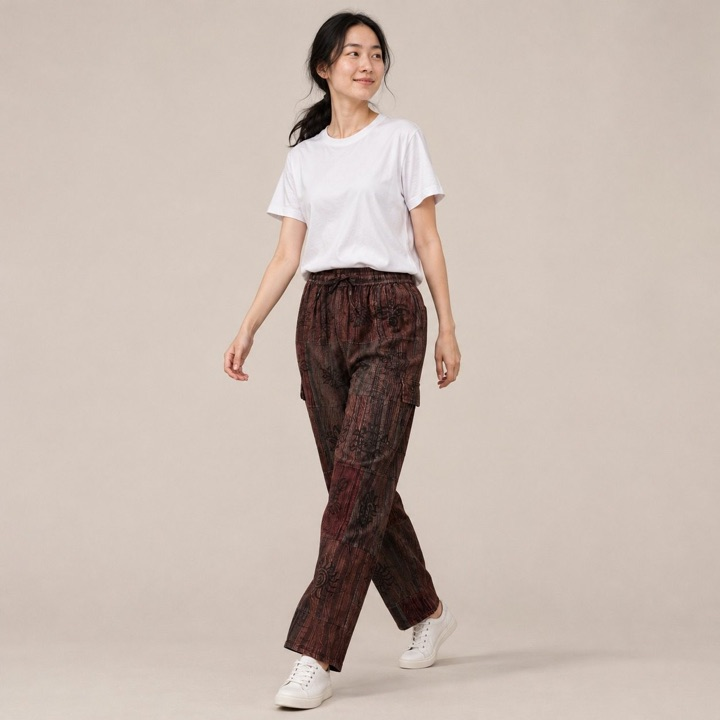
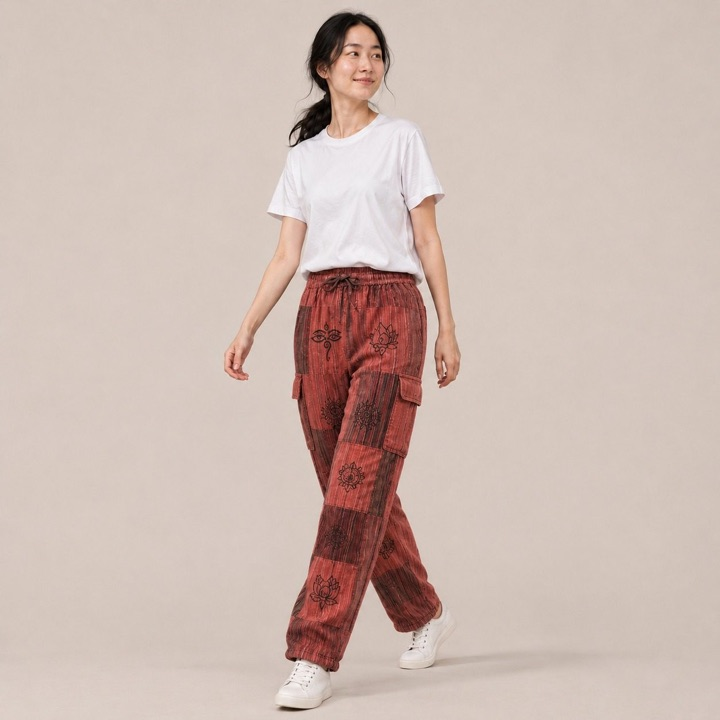
Patch pyjama: red instead of charcoal (owner, as on Coupang); eco: 친환경 wording back (owner)

Changed region(s): [[0.3972, 0.3667, 0.6111, 0.9472]]

diff --git a/p-patch-pyjama.html b/p-patch-pyjama.html
@@ -28,7 +28,7 @@
 <link rel="stylesheet" href="https://cdn.jsdelivr.net/gh/sun-typeface/SUIT/fonts/variable/woff2/SUIT-Variable.css">
 <link rel="stylesheet" href="style.css">
 <script>document.documentElement.classList.add('js')</script>
-<script type="application/ld+json">{"@context":"https://schema.org","@type":"Product","name":"패치 파자마 Patch Pyjama","brand":{"@type":"Brand","name":"FEEL INDIA"},"material":"면 100%","countryOfOrigin":"인도","color":"그린, 차콜, 블루","image":["https://feelindia-official.github.io/fi-patch-pyjama-studio-1.jpg","https://feelindia-official.github.io/fi-patch-pyjama-product-1-full.jpg","https://feelindia-official.github.io/fi-patch-pyjama-studio-2.jpg","https://feelindia-official.github.io/fi-patch-pyjama-studio-3.jpg"],"description":"프린트 패치를 이은 일자 파자마예요. 옆에 카고 주머니를 달았어요."}</script>
+<script type="application/ld+json">{"@context":"https://schema.org","@type":"Product","name":"패치 파자마 Patch Pyjama","brand":{"@type":"Brand","name":"FEEL INDIA"},"material":"면 100%","countryOfOrigin":"인도","color":"그린, 레드, 블루","image":["https://feelindia-official.github.io/fi-patch-pyjama-studio-1.jpg","https://feelindia-official.github.io/fi-patch-pyjama-product-1-full.jpg","https://feelindia-official.github.io/fi-patch-pyjama-studio-2.jpg","https://feelindia-official.github.io/fi-patch-pyjama-studio-3.jpg"],"description":"프린트 패치를 이은 일자 파자마예요. 옆에 카고 주머니를 달았어요."}</script>
 </head>
 <body class="is-pdp">
 <a class="skip" href="#main">본문으로 이동</a>
@@ -66,10 +66,10 @@
       <div class="pg-track" data-pg-track tabindex="0" role="region" aria-label="패치 파자마">
         <figure class="pg-slide big" data-color="green" data-i="0"><img src="fi-patch-pyjama-studio-1-sm.jpg" srcset="fi-patch-pyjama-studio-1-sm.jpg 720w, fi-patch-pyjama-studio-1.jpg 1254w" sizes="(max-width: 900px) 100vw, 56vw" alt="패치 파자마 그린 · 스튜디오 정면" width="1254" height="1254" fetchpriority="high"></figure>
         <figure class="pg-slide" data-color="green" data-i="1"><img src="fi-patch-pyjama-product-1-full-sm.jpg" srcset="fi-patch-pyjama-product-1-full-sm.jpg 720w, fi-patch-pyjama-product-1-full.jpg 1254w" sizes="(max-width: 900px) 100vw, 28vw" alt="패치 파자마 · 그린 · 전체 모습" width="1254" height="1254" fetchpriority="high"></figure>
-        <figure class="pg-slide" data-color="charcoal" data-i="2"><img src="fi-patch-pyjama-studio-2-sm.jpg" srcset="fi-patch-pyjama-studio-2-sm.jpg 720w, fi-patch-pyjama-studio-2.jpg 1254w" sizes="(max-width: 900px) 100vw, 28vw" alt="패치 파자마 차콜 · 스튜디오 걷는 모습" width="1254" height="1254" loading="lazy" decoding="async"></figure>
+        <figure class="pg-slide" data-color="red" data-i="2"><img src="fi-patch-pyjama-studio-2-sm.jpg" srcset="fi-patch-pyjama-studio-2-sm.jpg 720w, fi-patch-pyjama-studio-2.jpg 1254w" sizes="(max-width: 900px) 100vw, 28vw" alt="패치 파자마 레드 · 스튜디오 걷는 모습" width="1254" height="1254" loading="lazy" decoding="async"></figure>
         <figure class="pg-slide" data-color="blue" data-i="3"><img src="fi-patch-pyjama-studio-3-sm.jpg" srcset="fi-patch-pyjama-studio-3-sm.jpg 720w, fi-patch-pyjama-studio-3.jpg 1254w" sizes="(max-width: 900px) 100vw, 28vw" alt="패치 파자마 블루 · 스튜디오 옆모습" width="1254" height="1254" loading="lazy" decoding="async"></figure>
         <figure class="pg-slide" data-color="green" data-i="4"><img src="fi-patch-pyjama-life-1-sm.jpg" srcset="fi-patch-pyjama-life-1-sm.jpg 720w, fi-patch-pyjama-life-1.jpg 1254w" sizes="(max-width: 900px) 100vw, 28vw" alt="영화 · 패치 파자마 그린" width="1254" height="1254" loading="lazy" decoding="async"></figure>
-        <figure class="pg-slide" data-color="charcoal" data-i="5"><img src="fi-patch-pyjama-life-2-sm.jpg" srcset="fi-patch-pyjama-life-2-sm.jpg 720w, fi-patch-pyjama-life-2.jpg 1254w" sizes="(max-width: 900px) 100vw, 28vw" alt="빵집 · 패치 파자마 차콜" width="1254" height="1254" loading="lazy" decoding="async"></figure>
+        <figure class="pg-slide" data-color="red" data-i="5"><img src="fi-patch-pyjama-life-2-sm.jpg" srcset="fi-patch-pyjama-life-2-sm.jpg 720w, fi-patch-pyjama-life-2.jpg 1254w" sizes="(max-width: 900px) 100vw, 28vw" alt="빵집 · 패치 파자마 레드" width="1254" height="1254" loading="lazy" decoding="async"></figure>
         <figure class="pg-slide" data-color="blue" data-i="6"><img src="fi-patch-pyjama-life-3-sm.jpg" srcset="fi-patch-pyjama-life-3-sm.jpg 720w, fi-patch-pyjama-life-3.jpg 1254w" sizes="(max-width: 900px) 100vw, 28vw" alt="산책 · 패치 파자마 블루" width="1254" height="1254" loading="lazy" decoding="async"></figure>
         <figure class="pg-slide" data-color="green" data-i="7"><img src="fi-patch-pyjama-product-2-fabric-sm.jpg" srcset="fi-patch-pyjama-product-2-fabric-sm.jpg 720w, fi-patch-pyjama-product-2-fabric.jpg 1254w" sizes="(max-width: 900px) 100vw, 28vw" alt="패치 파자마 · 원단 가까이" width="1254" height="1254" loading="lazy" decoding="async"></figure>
         <figure class="pg-slide" data-color="green" data-i="8"><img src="fi-patch-pyjama-product-3-waist-sm.jpg" srcset="fi-patch-pyjama-product-3-waist-sm.jpg 720w, fi-patch-pyjama-product-3-waist.jpg 1254w" sizes="(max-width: 900px) 100vw, 28vw" alt="패치 파자마 · 허리 밴딩" width="1254" height="1254" loading="lazy" decoding="async"></figure>
@@ -88,7 +88,7 @@
     <p class="opt-label">컬러 <span data-color-name>그린</span></p>
     <div class="colors" role="group" aria-label="컬러 선택">
       <button type="button" data-color="green" data-kr="그린" aria-pressed="true"><span class="sw sw-green" title="그린"></span>그린</button>
-      <button type="button" data-color="charcoal" data-kr="차콜" aria-pressed="false"><span class="sw sw-charcoal" title="차콜"></span>차콜</button>
+      <button type="button" data-color="red" data-kr="레드" aria-pressed="false"><span class="sw sw-red" title="레드"></span>레드</button>
       <button type="button" data-color="blue" data-kr="블루" aria-pressed="false"><span class="sw sw-blue" title="블루"></span>블루</button>
     </div>
     <p class="opt-label">사이즈</p>
@@ -104,7 +104,7 @@
       <h2 id="dp-title" class="dp-title">프린트 패치를 이은 파자마</h2>
       <p class="dp-lead">패치 파자마는 밑단까지 곧게 떨어지고 옆에 카고 주머니가 있어요.</p>
     </div>
-    <figure class="dp-hook-ph" data-reveal><img src="fi-patch-pyjama-studio-2-sm.jpg" srcset="fi-patch-pyjama-studio-2-sm.jpg 720w, fi-patch-pyjama-studio-2.jpg 1254w" sizes="(max-width: 760px) 100vw, 50vw" alt="패치 파자마 차콜 · 스튜디오 걷는 모습" width="1254" height="1254" loading="lazy" decoding="async"></figure>
+    <figure class="dp-hook-ph" data-reveal><img src="fi-patch-pyjama-studio-2-sm.jpg" srcset="fi-patch-pyjama-studio-2-sm.jpg 720w, fi-patch-pyjama-studio-2.jpg 1254w" sizes="(max-width: 760px) 100vw, 50vw" alt="패치 파자마 레드 · 스튜디오 걷는 모습" width="1254" height="1254" loading="lazy" decoding="async"></figure>
   </div>
   <div class="dp-why fld-sage">
     <ul class="wrap dp-why-list">
@@ -123,17 +123,17 @@
       <h2 class="dp-h">스타일링</h2>
       <div class="dp-rail">
         <figure class="dp-scene" data-reveal><img src="fi-patch-pyjama-life-1-sm.jpg" srcset="fi-patch-pyjama-life-1-sm.jpg 720w, fi-patch-pyjama-life-1.jpg 1254w" sizes="(max-width: 760px) 84vw, 33vw" alt="영화 · 패치 파자마 그린" width="1254" height="1254" loading="lazy" decoding="async"><figcaption><h3>영화</h3><p class="look">그린 + 크림 니트 + 회색 양말 + 니트 담요</p><p>소파에서 영화를 볼 땐 그린에 크림 니트를 입고 니트 담요를 어깨에 걸쳐 보세요.</p></figcaption></figure>
-        <figure class="dp-scene" data-reveal><img src="fi-patch-pyjama-life-2-sm.jpg" srcset="fi-patch-pyjama-life-2-sm.jpg 720w, fi-patch-pyjama-life-2.jpg 1254w" sizes="(max-width: 760px) 84vw, 33vw" alt="빵집 · 패치 파자마 차콜" width="1254" height="1254" loading="lazy" decoding="async"><figcaption><h3>빵집</h3><p class="look">차콜 + 흰 티셔츠 위에 아이보리 카디건 + 흰 스니커즈</p><p>빵집에 들를 땐 차콜에 흰 티셔츠를 입고 아이보리 카디건을 걸쳐 보세요.</p></figcaption></figure>
+        <figure class="dp-scene" data-reveal><img src="fi-patch-pyjama-life-2-sm.jpg" srcset="fi-patch-pyjama-life-2-sm.jpg 720w, fi-patch-pyjama-life-2.jpg 1254w" sizes="(max-width: 760px) 84vw, 33vw" alt="빵집 · 패치 파자마 레드" width="1254" height="1254" loading="lazy" decoding="async"><figcaption><h3>빵집</h3><p class="look">레드 + 흰 티셔츠 위에 아이보리 카디건 + 흰 스니커즈</p><p>빵집에 들를 땐 레드에 흰 티셔츠를 입고 아이보리 카디건을 걸쳐 보세요.</p></figcaption></figure>
         <figure class="dp-scene" data-reveal><img src="fi-patch-pyjama-life-3-sm.jpg" srcset="fi-patch-pyjama-life-3-sm.jpg 720w, fi-patch-pyjama-life-3.jpg 1254w" sizes="(max-width: 760px) 84vw, 33vw" alt="산책 · 패치 파자마 블루" width="1254" height="1254" loading="lazy" decoding="async"><figcaption><h3>산책</h3><p class="look">블루 + 흰 티셔츠 + 흰 스니커즈 + 캔버스 토트</p><p>반려견과 산책할 땐 블루에 흰 티셔츠와 흰 스니커즈를 맞추고 캔버스 토트를 들어 보세요.</p></figcaption></figure>
       </div>
     </div>
   </div>
   <div class="wrap dp-colors">
     <h2 class="dp-h">컬러</h2>
-    <p class="dp-sub">그린, 차콜, 블루가 있어요.</p>
+    <p class="dp-sub">그린, 레드, 블루가 있어요.</p>
     <div class="dp-color-grid" style="--n:3">
       <figure data-reveal><img src="fi-patch-pyjama-studio-1-sm.jpg" srcset="fi-patch-pyjama-studio-1-sm.jpg 720w, fi-patch-pyjama-studio-1.jpg 1254w" sizes="(max-width: 760px) 50vw, 20vw" alt="패치 파자마 그린 · 스튜디오 정면" width="1254" height="1254" loading="lazy" decoding="async"><figcaption><span class="sw sw-green" title="그린"></span>그린</figcaption></figure>
-      <figure data-reveal><img src="fi-patch-pyjama-studio-2-sm.jpg" srcset="fi-patch-pyjama-studio-2-sm.jpg 720w, fi-patch-pyjama-studio-2.jpg 1254w" sizes="(max-width: 760px) 50vw, 20vw" alt="패치 파자마 차콜 · 스튜디오 걷는 모습" width="1254" height="1254" loading="lazy" decoding="async"><figcaption><span class="sw sw-charcoal" title="차콜"></span>차콜</figcaption></figure>
+      <figure data-reveal><img src="fi-patch-pyjama-studio-2-sm.jpg" srcset="fi-patch-pyjama-studio-2-sm.jpg 720w, fi-patch-pyjama-studio-2.jpg 1254w" sizes="(max-width: 760px) 50vw, 20vw" alt="패치 파자마 레드 · 스튜디오 걷는 모습" width="1254" height="1254" loading="lazy" decoding="async"><figcaption><span class="sw sw-red" title="레드"></span>레드</figcaption></figure>
       <figure data-reveal><img src="fi-patch-pyjama-studio-3-sm.jpg" srcset="fi-patch-pyjama-studio-3-sm.jpg 720w, fi-patch-pyjama-studio-3.jpg 1254w" sizes="(max-width: 760px) 50vw, 20vw" alt="패치 파자마 블루 · 스튜디오 옆모습" width="1254" height="1254" loading="lazy" decoding="async"><figcaption><span class="sw sw-blue" title="블루"></span>블루</figcaption></figure>
     </div>
   </div>

diff --git a/p-eco-pyjama.html b/p-eco-pyjama.html
@@ -9,12 +9,12 @@
 <meta name="apple-mobile-web-app-status-bar-style" content="default">
 <meta name="color-scheme" content="light">
 <title>에코 파자마 · Eco Pyjama | FEEL INDIA 필인디아</title>
-<meta name="description" content="면으로 만든 남녀 공용 일자 파자마예요. 스트라이프 두 가지와 단색 세 가지가 있어요. 소재는 면 100%. 인도에서 만든 남녀 공용 프리 사이즈예요.">
+<meta name="description" content="친환경 면으로 만든 남녀 공용 일자 파자마예요. 스트라이프 두 가지와 단색 세 가지가 있어요. 소재는 친환경 면 100%. 인도에서 만든 남녀 공용 프리 사이즈예요.">
 <link rel="canonical" href="https://feelindia-official.github.io/p-eco-pyjama.html">
 <meta property="og:type" content="website">
 <meta property="og:site_name" content="필인디아 FEEL INDIA">
 <meta property="og:title" content="에코 파자마 · Eco Pyjama | FEEL INDIA 필인디아">
-<meta property="og:description" content="면으로 만든 남녀 공용 일자 파자마예요. 스트라이프 두 가지와 단색 세 가지가 있어요. 소재는 면 100%. 인도에서 만든 남녀 공용 프리 사이즈예요.">
+<meta property="og:description" content="친환경 면으로 만든 남녀 공용 일자 파자마예요. 스트라이프 두 가지와 단색 세 가지가 있어요. 소재는 친환경 면 100%. 인도에서 만든 남녀 공용 프리 사이즈예요.">
 <meta property="og:image" content="https://feelindia-official.github.io/fi-eco-pyjama-studio-1.jpg">
 <meta property="og:url" content="https://feelindia-official.github.io/p-eco-pyjama.html">
 <meta property="og:locale" content="ko_KR">
@@ -28,7 +28,7 @@
 <link rel="stylesheet" href="https://cdn.jsdelivr.net/gh/sun-typeface/SUIT/fonts/variable/woff2/SUIT-Variable.css">
 <link rel="stylesheet" href="style.css">
 <script>document.documentElement.classList.add('js')</script>
-<script type="application/ld+json">{"@context":"https://schema.org","@type":"Product","name":"에코 파자마 Eco Pyjama","brand":{"@type":"Brand","name":"FEEL INDIA"},"material":"면 100%","countryOfOrigin":"인도","color":"브라운 스트라이프, 라이트 그레이 스트라이프, 네이비, 그레이, 마룬","image":["https://feelindia-official.github.io/fi-eco-pyjama-studio-1.jpg","https://feelindia-official.github.io/fi-eco-pyjama-product-1-full.jpg","https://feelindia-official.github.io/fi-eco-pyjama-studio-2.jpg","https://feelindia-official.github.io/fi-eco-pyjama-studio-3.jpg"],"description":"면으로 만든 남녀 공용 일자 파자마예요. 스트라이프 두 가지와 단색 세 가지가 있어요."}</script>
+<script type="application/ld+json">{"@context":"https://schema.org","@type":"Product","name":"에코 파자마 Eco Pyjama","brand":{"@type":"Brand","name":"FEEL INDIA"},"material":"친환경 면 100%","countryOfOrigin":"인도","color":"브라운 스트라이프, 라이트 그레이 스트라이프, 네이비, 그레이, 마룬","image":["https://feelindia-official.github.io/fi-eco-pyjama-studio-1.jpg","https://feelindia-official.github.io/fi-eco-pyjama-product-1-full.jpg","https://feelindia-official.github.io/fi-eco-pyjama-studio-2.jpg","https://feelindia-official.github.io/fi-eco-pyjama-studio-3.jpg"],"description":"친환경 면으로 만든 남녀 공용 일자 파자마예요. 스트라이프 두 가지와 단색 세 가지가 있어요."}</script>
 </head>
 <body class="is-pdp">
 <a class="skip" href="#main">본문으로 이동</a>
@@ -84,7 +84,7 @@
     <h1>에코 파자마</h1>
     <p class="en-name" lang="en">Eco Pyjama</p>
     <p class="price">35,000원</p>
-    <p class="short">면으로 만든 남녀 공용 일자 파자마예요. 스트라이프 두 가지와 단색 세 가지가 있어요.</p>
+    <p class="short">친환경 면으로 만든 남녀 공용 일자 파자마예요. 스트라이프 두 가지와 단색 세 가지가 있어요.</p>
     <p class="opt-label">컬러 <span data-color-name>브라운 스트라이프</span></p>
     <div class="colors" role="group" aria-label="컬러 선택">
       <button type="button" data-color="brownstripe" data-kr="브라운 스트라이프" aria-pressed="true"><span class="sw sw-brownstripe" title="브라운 스트라이프"></span>브라운 스트라이프</button>
@@ -96,7 +96,7 @@
     <p class="opt-label">사이즈</p>
     <p class="size-line">프리 사이즈, 허리 72~96cm 밴딩, 총장 102cm</p>
     <div class="cta" data-cta><a class="btn wide" href="https://ig.me/m/feelindia_official" rel="noopener">DM으로 오픈 소식 받기</a><p class="note">지금은 컬렉션을 미리 볼 수 있어요. 인스타그램 DM으로 문의해 주시면 판매가 시작될 때 알려드려요.</p></div>
-    <table class="spec facts"><tr><th scope="row">원단</th><td>면 100%</td></tr><tr><th scope="row">제조국</th><td>인도</td></tr><tr><th scope="row">제품명</th><td>에코프렌들리 파자마</td></tr></table>
+    <table class="spec facts"><tr><th scope="row">원단</th><td>친환경 면 100%</td></tr><tr><th scope="row">제조국</th><td>인도</td></tr><tr><th scope="row">제품명</th><td>에코프렌들리 파자마</td></tr></table>
   </div>
 </section>
 
@@ -104,7 +104,7 @@
   <div class="wrap dp-hook">
     <div class="dp-hook-copy" data-reveal>
       <h2 id="dp-title" class="dp-title">밑단까지 곧게 떨어지는 면 파자마</h2>
-      <p class="dp-lead">에코 파자마는 면 100%로 만든 일자 바지예요.</p>
+      <p class="dp-lead">에코 파자마는 친환경 면 100%로 만든 일자 바지예요.</p>
     </div>
     <figure class="dp-hook-ph" data-reveal><img src="fi-eco-pyjama-studio-2-sm.jpg" srcset="fi-eco-pyjama-studio-2-sm.jpg 720w, fi-eco-pyjama-studio-2.jpg 1254w" sizes="(max-width: 760px) 100vw, 50vw" alt="에코 파자마 네이비 · 스튜디오 걷는 모습" width="1254" height="1254" loading="lazy" decoding="async"></figure>
   </div>
@@ -118,7 +118,7 @@
   <div class="wrap dp-details">
     <figure data-reveal><img src="fi-eco-pyjama-product-3-waist-sm.jpg" srcset="fi-eco-pyjama-product-3-waist-sm.jpg 720w, fi-eco-pyjama-product-3-waist.jpg 1254w" sizes="(max-width: 760px) 100vw, 33vw" alt="에코 파자마 · 허리 밴딩" width="1254" height="1254" loading="lazy" decoding="async"><figcaption><h3>허리 밴딩</h3><p>허리 밴딩 범위는 72~96cm예요.</p></figcaption></figure>
     <figure data-reveal><img src="fi-eco-pyjama-product-4-detail-sm.jpg" srcset="fi-eco-pyjama-product-4-detail-sm.jpg 720w, fi-eco-pyjama-product-4-detail.jpg 1254w" sizes="(max-width: 760px) 100vw, 33vw" alt="에코 파자마 · 일자 밑단" width="1254" height="1254" loading="lazy" decoding="async"><figcaption><h3>일자 밑단</h3><p>바짓단이 다리에서 이어져 곧게 내려와요.</p></figcaption></figure>
-    <figure data-reveal><img src="fi-eco-pyjama-product-2-fabric-sm.jpg" srcset="fi-eco-pyjama-product-2-fabric-sm.jpg 720w, fi-eco-pyjama-product-2-fabric.jpg 1254w" sizes="(max-width: 760px) 100vw, 33vw" alt="에코 파자마 · 원단 가까이" width="1254" height="1254" loading="lazy" decoding="async"><figcaption><h3>면 100%</h3><p>스트라이프와 단색 모두 같은 면 소재로 만들어요.</p></figcaption></figure>
+    <figure data-reveal><img src="fi-eco-pyjama-product-2-fabric-sm.jpg" srcset="fi-eco-pyjama-product-2-fabric-sm.jpg 720w, fi-eco-pyjama-product-2-fabric.jpg 1254w" sizes="(max-width: 760px) 100vw, 33vw" alt="에코 파자마 · 원단 가까이" width="1254" height="1254" loading="lazy" decoding="async"><figcaption><h3>친환경 면 100%</h3><p>스트라이프와 단색 모두 같은 면 소재로 만들어요.</p></figcaption></figure>
   </div>
   <div class="dp-scenes tint">
     <div class="wrap">
@@ -150,7 +150,7 @@
     </div>
     <div>
       <h2 class="dp-h">세탁 안내</h2>
-      <p>면 100%예요. 인도에서 만들어요.</p>
+      <p>친환경 면 100%예요. 인도에서 만들어요.</p>
       <p>상품 정보 기준으로 일반 세탁이 가능하고 수축이 없어요.</p>
       <p>첫 세탁은 바지를 뒤집어 세탁망에 넣고 찬물에 따로 해 주세요. 세탁 후에는 그늘에서 말려 주세요.</p>
     </div>
@@ -160,7 +160,7 @@
   </div>
   <div class="wrap dp-faq faq">
     <h2 class="dp-h">구매 전 궁금한 점</h2>
-    <details><summary>스트라이프와 단색은 어떤 원단을 쓰나요?</summary><p>스트라이프와 단색 모두 면 100%예요. 두께나 밝은 색의 비침이 궁금하면 DM으로 물어봐 주세요. 실제 원단을 보고 답해 드려요.</p></details>
+    <details><summary>스트라이프와 단색은 어떤 원단을 쓰나요?</summary><p>스트라이프와 단색 모두 친환경 면 100%예요. 두께나 밝은 색의 비침이 궁금하면 DM으로 물어봐 주세요. 실제 원단을 보고 답해 드려요.</p></details>
     <details><summary>허리 밴딩과 일자 밑단 길이는 어떻게 확인해요?</summary><p>허리둘레가 72~96cm 범위에 들어오는지 확인해 주세요. 총장은 102cm예요. 밑단이 어디쯤 올지 보려면 평소 잘 맞는 바지와 총장을 비교해 보세요. 밴드 착용감이나 기장이 더 궁금하면 DM으로 물어봐 주세요.</p></details>
     <details><summary>단색과 줄무늬 색이 화면과 같나요?</summary><p>색은 화면에 따라 다르게 보일 수 있어요. 실제 색이 궁금하면 DM으로 물어봐 주세요.</p></details>
   </div>
@@ -185,7 +185,7 @@
   <div class="ph"><img src="fi-patch-pyjama-studio-1-sm.jpg" srcset="fi-patch-pyjama-studio-1-sm.jpg 720w, fi-patch-pyjama-studio-1.jpg 1254w" sizes="(max-width: 760px) 50vw, 33vw" alt="패치 파자마 제품 사진" width="1254" height="1254" loading="lazy" decoding="async"><img src="fi-patch-pyjama-product-1-full-sm.jpg" srcset="fi-patch-pyjama-product-1-full-sm.jpg 720w, fi-patch-pyjama-product-1-full.jpg 1254w" sizes="(max-width: 760px) 50vw, 33vw" alt="패치 파자마 착용 모습" width="1254" height="1254" class="alt" loading="lazy" decoding="async"></div>
   <div class="meta">
     <span class="name">패치 파자마</span><span class="price">45,000원</span>
-    <span class="en-name" lang="en">Patch Pyjama</span><span class="swatches" aria-label="선택 가능한 색상 3가지"><span class="sw sw-green" title="그린"></span><span class="sw sw-charcoal" title="차콜"></span><span class="sw sw-blue" title="블루"></span></span>
+    <span class="en-name" lang="en">Patch Pyjama</span><span class="swatches" aria-label="선택 가능한 색상 3가지"><span class="sw sw-green" title="그린"></span><span class="sw sw-red" title="레드"></span><span class="sw sw-blue" title="블루"></span></span>
   </div>
 </a></div>
 </section>

diff --git a/p-classic-harem.html b/p-classic-harem.html
@@ -174,7 +174,7 @@
   <div class="ph"><img src="fi-patch-pyjama-studio-1-sm.jpg" srcset="fi-patch-pyjama-studio-1-sm.jpg 720w, fi-patch-pyjama-studio-1.jpg 1254w" sizes="(max-width: 760px) 50vw, 33vw" alt="패치 파자마 제품 사진" width="1254" height="1254" loading="lazy" decoding="async"><img src="fi-patch-pyjama-product-1-full-sm.jpg" srcset="fi-patch-pyjama-product-1-full-sm.jpg 720w, fi-patch-pyjama-product-1-full.jpg 1254w" sizes="(max-width: 760px) 50vw, 33vw" alt="패치 파자마 착용 모습" width="1254" height="1254" class="alt" loading="lazy" decoding="async"></div>
   <div class="meta">
     <span class="name">패치 파자마</span><span class="price">45,000원</span>
-    <span class="en-name" lang="en">Patch Pyjama</span><span class="swatches" aria-label="선택 가능한 색상 3가지"><span class="sw sw-green" title="그린"></span><span class="sw sw-charcoal" title="차콜"></span><span class="sw sw-blue" title="블루"></span></span>
+    <span class="en-name" lang="en">Patch Pyjama</span><span class="swatches" aria-label="선택 가능한 색상 3가지"><span class="sw sw-green" title="그린"></span><span class="sw sw-red" title="레드"></span><span class="sw sw-blue" title="블루"></span></span>
   </div>
 </a>
 <a class="card" href="p-eco-pyjama.html" data-line="pyjama">

diff --git a/p-straight-harem.html b/p-straight-harem.html
@@ -174,7 +174,7 @@
   <div class="ph"><img src="fi-patch-pyjama-studio-1-sm.jpg" srcset="fi-patch-pyjama-studio-1-sm.jpg 720w, fi-patch-pyjama-studio-1.jpg 1254w" sizes="(max-width: 760px) 50vw, 33vw" alt="패치 파자마 제품 사진" width="1254" height="1254" loading="lazy" decoding="async"><img src="fi-patch-pyjama-product-1-full-sm.jpg" srcset="fi-patch-pyjama-product-1-full-sm.jpg 720w, fi-patch-pyjama-product-1-full.jpg 1254w" sizes="(max-width: 760px) 50vw, 33vw" alt="패치 파자마 착용 모습" width="1254" height="1254" class="alt" loading="lazy" decoding="async"></div>
   <div class="meta">
     <span class="name">패치 파자마</span><span class="price">45,000원</span>
-    <span class="en-name" lang="en">Patch Pyjama</span><span class="swatches" aria-label="선택 가능한 색상 3가지"><span class="sw sw-green" title="그린"></span><span class="sw sw-charcoal" title="차콜"></span><span class="sw sw-blue" title="블루"></span></span>
+    <span class="en-name" lang="en">Patch Pyjama</span><span class="swatches" aria-label="선택 가능한 색상 3가지"><span class="sw sw-green" title="그린"></span><span class="sw sw-red" title="레드"></span><span class="sw sw-blue" title="블루"></span></span>
   </div>
 </a>
 <a class="card" href="p-eco-pyjama.html" data-line="pyjama">

diff --git a/index.html b/index.html
@@ -95,7 +95,7 @@
   <div class="ph"><img src="fi-patch-pyjama-studio-1-sm.jpg" srcset="fi-patch-pyjama-studio-1-sm.jpg 720w, fi-patch-pyjama-studio-1.jpg 1254w" sizes="(max-width: 760px) 50vw, 33vw" alt="패치 파자마 제품 사진" width="1254" height="1254" loading="lazy" decoding="async"><img src="fi-patch-pyjama-product-1-full-sm.jpg" srcset="fi-patch-pyjama-product-1-full-sm.jpg 720w, fi-patch-pyjama-product-1-full.jpg 1254w" sizes="(max-width: 760px) 50vw, 33vw" alt="패치 파자마 착용 모습" width="1254" height="1254" class="alt" loading="lazy" decoding="async"></div>
   <div class="meta">
     <span class="name">패치 파자마</span><span class="price">45,000원</span>
-    <span class="en-name" lang="en">Patch Pyjama</span><span class="swatches" aria-label="선택 가능한 색상 3가지"><span class="sw sw-green" title="그린"></span><span class="sw sw-charcoal" title="차콜"></span><span class="sw sw-blue" title="블루"></span></span>
+    <span class="en-name" lang="en">Patch Pyjama</span><span class="swatches" aria-label="선택 가능한 색상 3가지"><span class="sw sw-green" title="그린"></span><span class="sw sw-red" title="레드"></span><span class="sw sw-blue" title="블루"></span></span>
   </div>
 </a>
 <a class="card" href="p-eco-pyjama.html" data-line="pyjama">

diff --git a/shop.html b/shop.html
@@ -87,7 +87,7 @@
   <div class="ph"><img src="fi-patch-pyjama-studio-1-sm.jpg" srcset="fi-patch-pyjama-studio-1-sm.jpg 720w, fi-patch-pyjama-studio-1.jpg 1254w" sizes="(max-width: 760px) 50vw, 33vw" alt="패치 파자마 제품 사진" width="1254" height="1254" loading="lazy" decoding="async"><img src="fi-patch-pyjama-product-1-full-sm.jpg" srcset="fi-patch-pyjama-product-1-full-sm.jpg 720w, fi-patch-pyjama-product-1-full.jpg 1254w" sizes="(max-width: 760px) 50vw, 33vw" alt="패치 파자마 착용 모습" width="1254" height="1254" class="alt" loading="lazy" decoding="async"></div>
   <div class="meta">
     <span class="name">패치 파자마</span><span class="price">45,000원</span>
-    <span class="en-name" lang="en">Patch Pyjama</span><span class="swatches" aria-label="선택 가능한 색상 3가지"><span class="sw sw-green" title="그린"></span><span class="sw sw-charcoal" title="차콜"></span><span class="sw sw-blue" title="블루"></span></span>
+    <span class="en-name" lang="en">Patch Pyjama</span><span class="swatches" aria-label="선택 가능한 색상 3가지"><span class="sw sw-green" title="그린"></span><span class="sw sw-red" title="레드"></span><span class="sw sw-blue" title="블루"></span></span>
   </div>
 </a>
 <a class="card" href="p-eco-pyjama.html" data-line="pyjama">

diff --git a/p-flared-harem.html b/p-flared-harem.html
@@ -181,7 +181,7 @@
   <div class="ph"><img src="fi-patch-pyjama-studio-1-sm.jpg" srcset="fi-patch-pyjama-studio-1-sm.jpg 720w, fi-patch-pyjama-studio-1.jpg 1254w" sizes="(max-width: 760px) 50vw, 33vw" alt="패치 파자마 제품 사진" width="1254" height="1254" loading="lazy" decoding="async"><img src="fi-patch-pyjama-product-1-full-sm.jpg" srcset="fi-patch-pyjama-product-1-full-sm.jpg 720w, fi-patch-pyjama-product-1-full.jpg 1254w" sizes="(max-width: 760px) 50vw, 33vw" alt="패치 파자마 착용 모습" width="1254" height="1254" class="alt" loading="lazy" decoding="async"></div>
   <div class="meta">
     <span class="name">패치 파자마</span><span class="price">45,000원</span>
-    <span class="en-name" lang="en">Patch Pyjama</span><span class="swatches" aria-label="선택 가능한 색상 3가지"><span class="sw sw-green" title="그린"></span><span class="sw sw-charcoal" title="차콜"></span><span class="sw sw-blue" title="블루"></span></span>
+    <span class="en-name" lang="en">Patch Pyjama</span><span class="swatches" aria-label="선택 가능한 색상 3가지"><span class="sw sw-green" title="그린"></span><span class="sw sw-red" title="레드"></span><span class="sw sw-blue" title="블루"></span></span>
   </div>
 </a></div>
 </section>

diff --git a/p-patchwork-harem.html b/p-patchwork-harem.html
@@ -175,7 +175,7 @@
   <div class="ph"><img src="fi-patch-pyjama-studio-1-sm.jpg" srcset="fi-patch-pyjama-studio-1-sm.jpg 720w, fi-patch-pyjama-studio-1.jpg 1254w" sizes="(max-width: 760px) 50vw, 33vw" alt="패치 파자마 제품 사진" width="1254" height="1254" loading="lazy" decoding="async"><img src="fi-patch-pyjama-product-1-full-sm.jpg" srcset="fi-patch-pyjama-product-1-full-sm.jpg 720w, fi-patch-pyjama-product-1-full.jpg 1254w" sizes="(max-width: 760px) 50vw, 33vw" alt="패치 파자마 착용 모습" width="1254" height="1254" class="alt" loading="lazy" decoding="async"></div>
   <div class="meta">
     <span class="name">패치 파자마</span><span class="price">45,000원</span>
-    <span class="en-name" lang="en">Patch Pyjama</span><span class="swatches" aria-label="선택 가능한 색상 3가지"><span class="sw sw-green" title="그린"></span><span class="sw sw-charcoal" title="차콜"></span><span class="sw sw-blue" title="블루"></span></span>
+    <span class="en-name" lang="en">Patch Pyjama</span><span class="swatches" aria-label="선택 가능한 색상 3가지"><span class="sw sw-green" title="그린"></span><span class="sw sw-red" title="레드"></span><span class="sw sw-blue" title="블루"></span></span>
   </div>
 </a></div>
 </section>

diff --git a/links.html b/links.html
@@ -58,7 +58,7 @@
       <a class="lp-thumb" href="https://www.coupang.com/vp/products/8449823780" rel="noopener"><img src="fi-eco-pyjama-studio-1-sm.jpg" alt="에코 파자마 제품 사진" width="720" height="720" loading="lazy" decoding="async"></a>
       <div class="lp-info">
         <h2>에코 파자마</h2>
-        <p>면으로 만든 남녀 공용 일자 파자마예요. 스트라이프 두 가지와 단색 세 가지가 있어요.</p>
+        <p>친환경 면으로 만든 남녀 공용 일자 파자마예요. 스트라이프 두 가지와 단색 세 가지가 있어요.</p>
         <a class="btn lp-buy" href="https://www.coupang.com/vp/products/8449823780" rel="noopener">BUY NOW</a>
       </div>
     </article>
